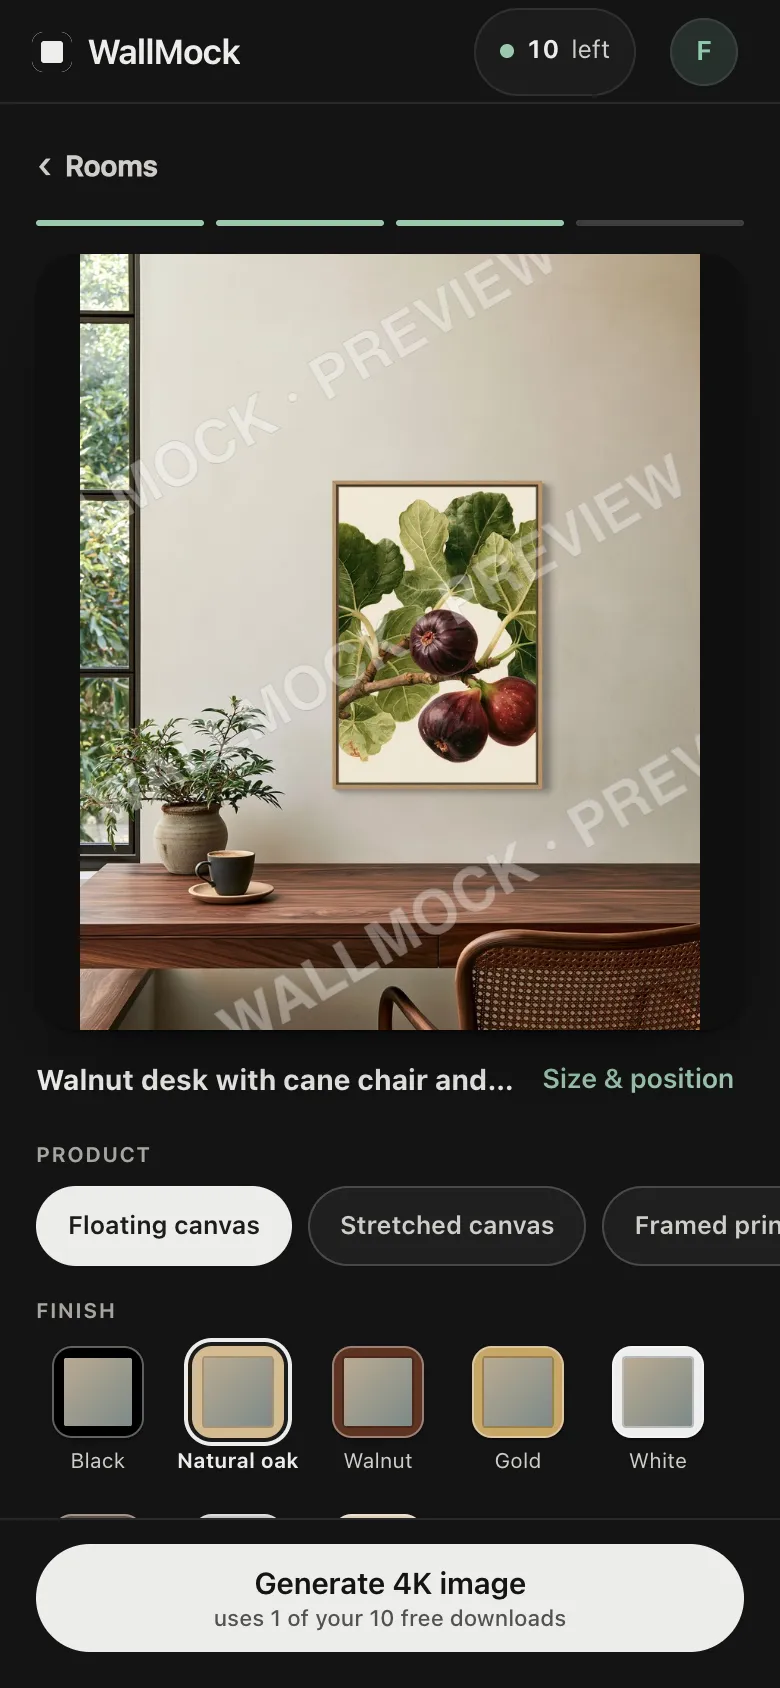
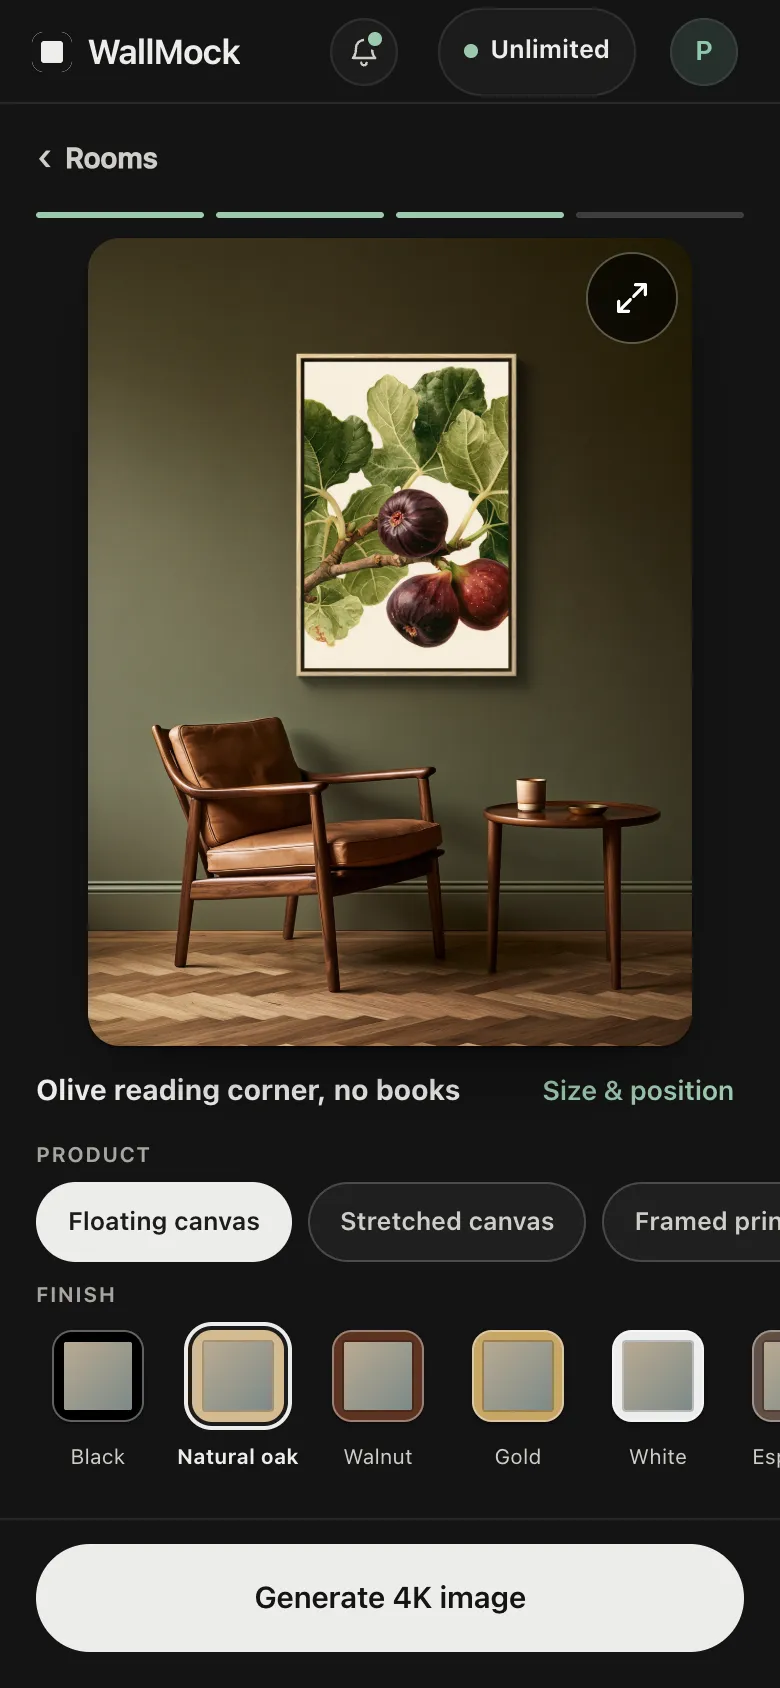
Phone page: clean paid-plan screenshots for Pick a room and the frame screen (no watermark); caption says paid plan, Free previews watermarked

diff --git a/wall-art-mockup-app/index.html b/wall-art-mockup-app/index.html
@@ -59,8 +59,8 @@
 
 <section class="band soft" aria-labelledby="how-h"><div class="wrap">
   <h2 id="how-h">How it works on a phone</h2>
-  <div class="lp-set" style="max-width:640px"><div class="lp-row"><figure style="flex:1 1 0"><img src="/assets/app/wallmock-phone-pick-a-room.webp" alt="WallMock on a phone, Pick a room screen: tabs for Best for your art and All rooms, and a grid of watermarked room previews with a fig painting, the first marked Best match" width="780" height="1688" loading="lazy" decoding="async"><figcaption><b>Pick a room</b>Rooms picked for your art first</figcaption></figure><figure style="flex:1 1 0"><img src="/assets/app/wallmock-phone-choose-frame.webp" alt="WallMock on a phone, frame screen: a watermarked preview of the fig painting in a natural oak floating frame above a walnut desk, with Product and Finish choices and a Generate 4K image button" width="780" height="1688" loading="lazy" decoding="async"><figcaption><b>Pick the frame</b>Preview, then Generate 4K image</figcaption></figure></div></div>
-  <p class="small">Screenshots of WallMock on a phone, November 2026, with an example botanical artwork. Previews carry a watermark until you generate; the finished image is at the top of this page.</p>
+  <div class="lp-set" style="max-width:640px"><div class="lp-row"><figure style="flex:1 1 0"><img src="/assets/app/wallmock-phone-pick-a-room.webp" alt="WallMock on a phone, Pick a room screen: the fig painting at the top, tabs for Best for your art and All rooms, and a grid of rooms picked for it, the first marked Best match" width="780" height="1688" loading="lazy" decoding="async"><figcaption><b>Pick a room</b>Rooms picked for your art first</figcaption></figure><figure style="flex:1 1 0"><img src="/assets/app/wallmock-phone-choose-frame.webp" alt="WallMock on a phone, frame screen: a preview of the fig painting in a natural oak floating frame on an olive wall above a leather armchair, with Product and Finish choices and a Generate 4K image button" width="780" height="1688" loading="lazy" decoding="async"><figcaption><b>Pick the frame</b>Preview, then Generate 4K image</figcaption></figure></div></div>
+  <p class="small">Screenshots of WallMock on a phone on a paid plan, November 2026, with an example botanical artwork. On the Free plan, previews carry a watermark until you generate.</p>
   <div class="prose"><ol>
     <li><strong>Add your artwork.</strong> A JPEG, PNG or WebP from your photos or files. No file to hand? Tap <em>Try a sample</em>.</li>
     <li><strong>Pick a room.</strong> <em>Best for your art</em> shows the rooms WallMock picked for this artwork, the closest marked <em>Best match</em>. <em>All rooms</em> lets you browse by room type.</li>
